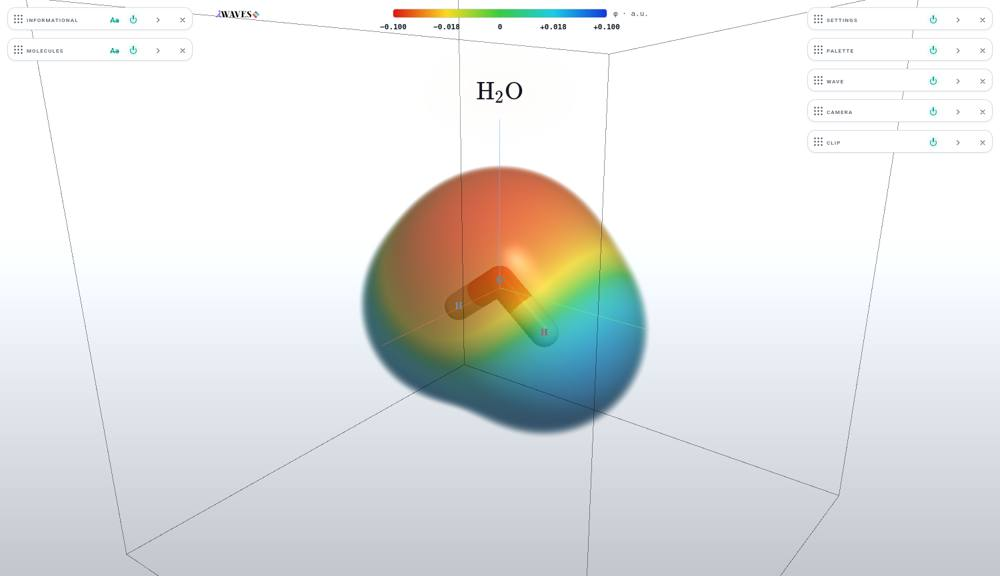
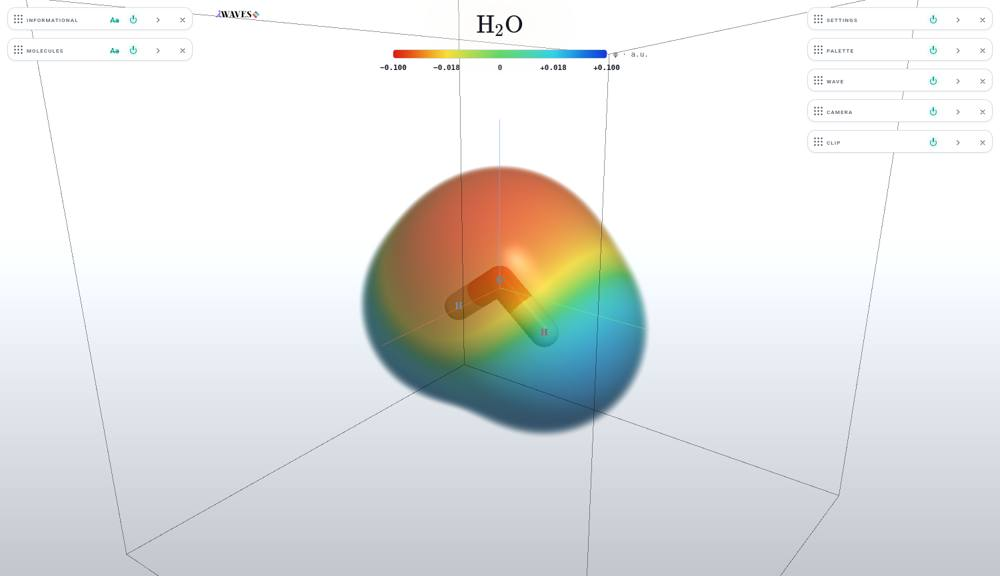
B8 INFORMATIONAL PAD 0: infoPad's default, the lift's and the seat's are 0 (stored records keep theirs); the bar shots re-taken with the formula at its edge (the bar steps clear)

Changed region(s): [[0.372, 0.0, 0.62, 0.1875]]

diff --git a/lab/shell/stage-words.js b/lab/shell/stage-words.js
@@ -37,7 +37,7 @@ export const INFO_ROWS = Object.freeze([
   { key: 'atomLabels', type: 'bool', default: true, group: 'labels', label: 'ATOM LABELS', hint: 'Mark each MOLECULES nucleus with its element symbol, inverting whatever is beneath it' },
   { key: 'atomLabelsSize', type: 'number', min: 0.5, max: 3, step: 0.01, default: 1, group: 'labels', label: 'SIZE', fmt: pct, hint: 'The ATOM LABELS\' size: 100% is the notebook\'s body (14 px)' },
   { key: 'infoPos', type: 'enum', values: ['top', 'bottom'], default: 'top', group: 'seat', label: 'POSITION', options: [{ id: 'top', label: 'TOP' }, { id: 'bottom', label: 'BOTTOM' }], hint: 'The formula at the top or the bottom of the free stage; the pop-ups take the other side' },
-  { key: 'infoPad', type: 'number', min: 0, max: 0.4, step: 0.01, default: 0.12, group: 'seat', label: 'PAD', fmt: pct, hint: 'The formula\'s distance from its edge of the free stage, as a share of its height; the pop-ups keep the same distance on the other side' },
+  { key: 'infoPad', type: 'number', min: 0, max: 0.4, step: 0.01, default: 0, group: 'seat', label: 'PAD', fmt: pct, hint: 'The formula\'s distance from its edge of the free stage, as a share of its height; the pop-ups keep the same distance on the other side' },
   /* iteration 018 B7 (Josh: "Include ESP's bar with a padding setting and a toggle that just cycles between right (where it is now), left, top, and bottom.
      Stage text and formula is on top of the bar … Stage text takes priority"): the bar is painted by WAVE (material.js) and seated by these three */
   { key: 'espBar', type: 'bool', default: true, group: 'bar', label: 'ESP BAR', hint: 'The ESP map’s colour bar on the stage while WAVE draws ESP — the shader’s own colours and five numbers in a.u.' },
@@ -74,13 +74,13 @@ export const BLOB_INFO = Object.freeze(['molFormula', 'molFormulaSize', 'atomLab
 /** …and the three MARKS it held until the fix round (C6), each written only while on: read once into the record, whenever they are found */
 const BLOB_MARKS = Object.freeze(['skeleton', 'bead', 'ellipsoid']);
 /** liftInfo(blob) → the record's patch, by the laws shell/settings.js read them by: nothing said is ON at 100 %; an absent atomLabels /
- *  atomLabelsSize takes the stored molFormula / molFormulaSize (a 0.4–0.5.2 profile with STAGE TEXT off keeps its labels off); TOP at 12 % */
+ *  atomLabelsSize takes the stored molFormula / molFormulaSize (a 0.4–0.5.2 profile with STAGE TEXT off keeps its labels off); TOP at PAD 0 (018 B8; 12 % before) */
 export function liftInfo(s = {}) {
   if (!BLOB_INFO.some((k) => s[k] !== undefined)) return {};
   const num = (v) => (v === undefined || v === null ? NaN : +v), clamp = (v, lo, hi) => Math.max(lo, Math.min(hi, v));
   const molFormula = s.molFormula !== undefined ? s.molFormula !== false : s.atomLabels !== false, atomLabels = s.atomLabels !== undefined ? s.atomLabels !== false : molFormula;
   const molFormulaSize = Number.isFinite(num(s.molFormulaSize)) ? clamp(num(s.molFormulaSize), 0.5, 3) : 1, atomLabelsSize = Number.isFinite(num(s.atomLabelsSize)) ? clamp(num(s.atomLabelsSize), 0.5, 3) : molFormulaSize;
-  return { molFormula, atomLabels, molFormulaSize, atomLabelsSize, infoPos: s.infoPos === 'bottom' ? 'bottom' : 'top', infoPad: Number.isFinite(num(s.infoPad)) ? clamp(num(s.infoPad), 0, 0.4) : 0.12 };
+  return { molFormula, atomLabels, molFormulaSize, atomLabelsSize, infoPos: s.infoPos === 'bottom' ? 'bottom' : 'top', infoPad: Number.isFinite(num(s.infoPad)) ? clamp(num(s.infoPad), 0, 0.4) : 0 };
 }
 let infoStore = null, infoSeen = false;
 /** infoPrefs() — the one record (made at its first call: INFORMATIONAL's seat or applySettings', whichever comes first).  THE LIFT runs here, once:
@@ -168,7 +168,7 @@ export function createStageWords(app) {
     /* 2026-10-16 (Josh, iteration 001) · THE SEAT: TOP or BOTTOM of the free stage, PAD its share of the free height from that edge (0.12 is the kit's
        own seat).  The kit is not edited: two hair-thin bands in `avoid()` (mid-stage, never at an edge, so never read as a rack) pin the free stage
        to exactly the block's height at the seat, so the kit's placeBlock lands it there.  THE POP-UPS sit on the OTHER side, at the same PAD. */
-    const seat = { bottom: false, pad: 0.12 }; let block = null;
+    const seat = { bottom: false, pad: 0 }; let block = null;   // 018 B8: PAD 0 on a first run (Josh: "Informational's pad at zero"); a stored record keeps its own
     const bars = () => [...racks(), app.sh.layout.docked ? null : document.getElementById('transport')].map((e) => paintedRect(e)).filter(Boolean);
     function freeOf(rs, sb) {                                          // the kit's free() rule (info/layer.js), in stage px
       const m = INFO.margin, vw = innerWidth; let L = m, R = sb.width - m, T = m, B = sb.height - m;
